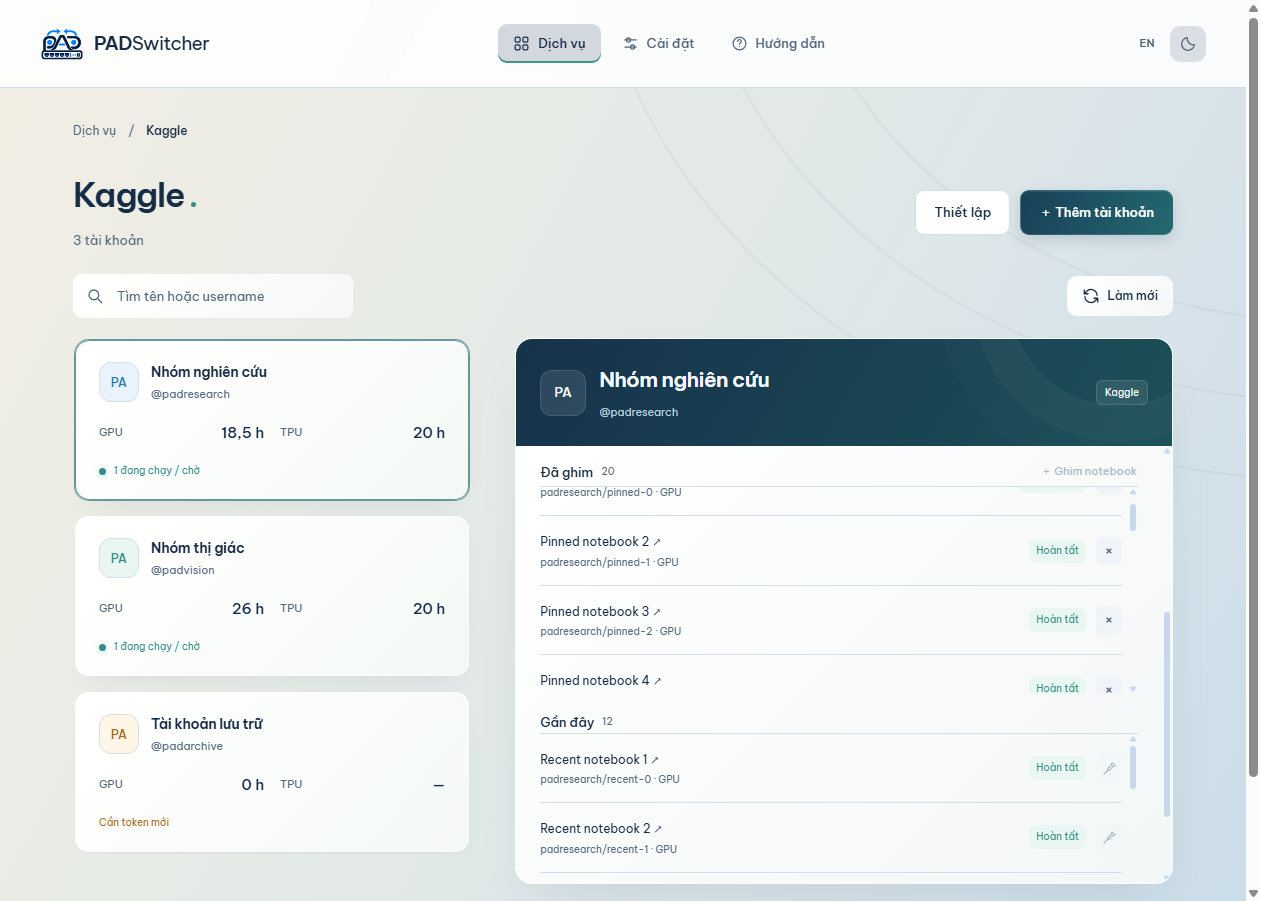
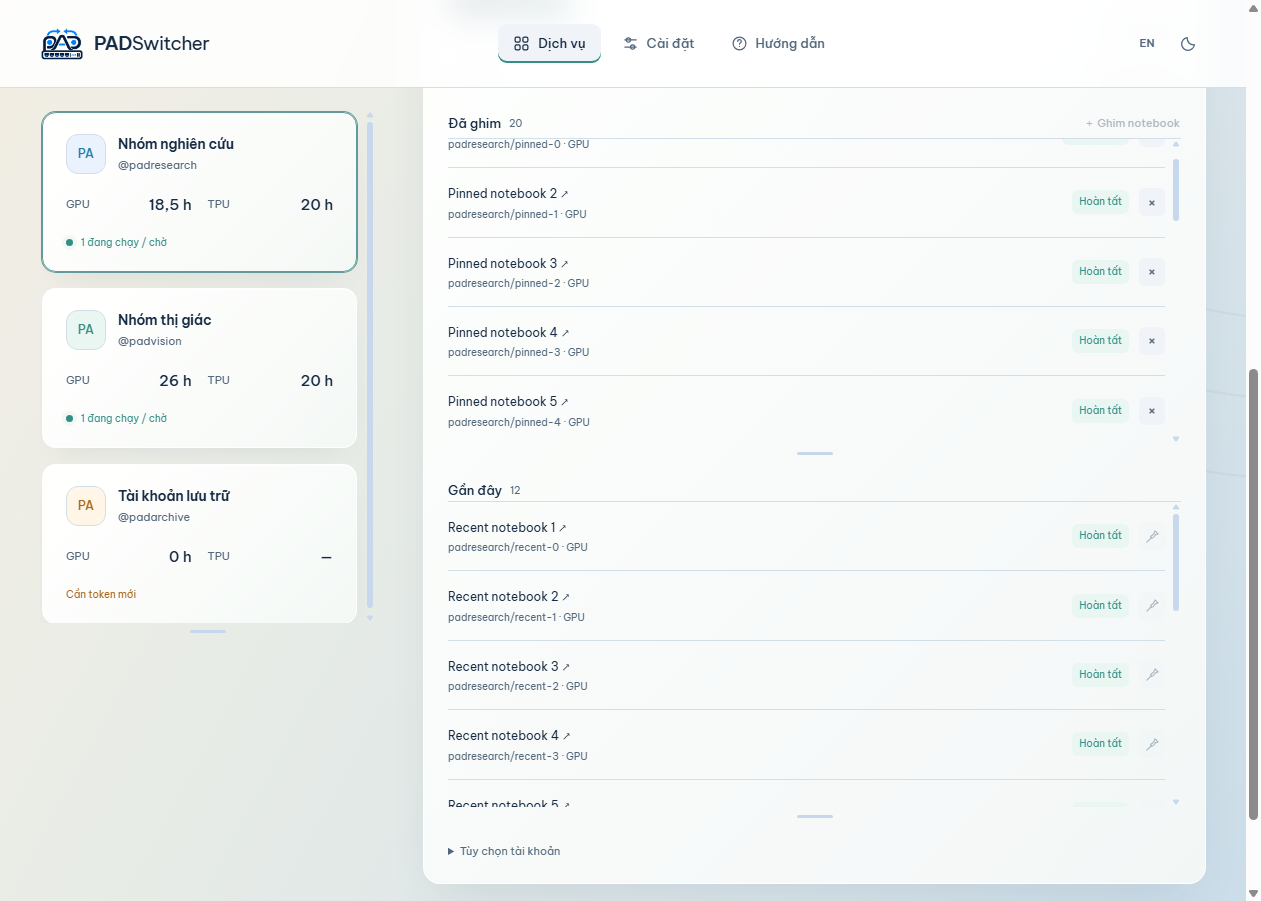
feat(kaggle): make account and notebook panes responsive and resizable
Use the available window width and page scrolling for account details.
Add drag and keyboard controls for column width and list heights, remember
chosen sizes across refresh/restart, and offer automatic-layout reset.
Preserve pagination for tall custom lists and verify native pointer capture.

diff --git a/src/renderer/kaggle.js b/src/renderer/kaggle.js
@@ -14,6 +14,74 @@ window.padKaggleUI = (() => {
   const act=(command,args={},success)=>hooks.call(command,args,success);
   const button=(id,label,kind='secondary',disabled=false)=>`<button type="button" id="${id}" class="button ${kind}" ${disabled?'disabled':''}>${label}</button>`;
   const literal=body=>`<div data-literal>${body}</div>`;
+  const layoutKey='pad-kaggle-layout';
+  let sizes={},resize=null,loadNext=null;
+  try{const saved=JSON.parse(localStorage.getItem(layoutKey));if(saved?.version===1)for(const key of ['width','accounts','pinned','recent'])if(Number.isFinite(saved[key])&&(key==='width'?saved[key]>=.15&&saved[key]<=.7:saved[key]>=80&&saved[key]<=10000))sizes[key]=saved[key];}catch{}
+  const grip=(key,label,vertical=false)=>`<div class="kg-resizer ${vertical?'kg-column-resizer':'kg-row-resizer'}" data-kg-resize="${key}" role="separator" tabindex="0" aria-orientation="${vertical?'vertical':'horizontal'}" aria-label="${label}" title="${label}"><span aria-hidden="true"></span></div>`;
+  function bounds(key){
+    if(key!=='width')return [key==='accounts'?160:80,Math.max(480,window.innerHeight*2)];
+    const width=Math.max(1,$('#kg-layout').clientWidth-48);
+    return [Math.min(.4,240/width),Math.max(.4,Math.min(.6,1-360/width))];
+  }
+  const constrain=(key,value)=>{const [min,max]=bounds(key);return Math.max(min,Math.min(max,value));};
+  function saveSizes(){try{if(Object.keys(sizes).length)localStorage.setItem(layoutKey,JSON.stringify({version:1,...sizes}));else localStorage.removeItem(layoutKey);}catch{}}
+  function applySizes(){
+    const root=$('#kaggle-content'),layout=$('#kg-layout');if(!layout||layout.classList.contains('hidden')||!layout.clientWidth)return;
+    const width=Math.max(1,layout.clientWidth-48),top=layout.getBoundingClientRect().top+window.scrollY;
+    const automaticAccounts=Math.max(320,window.innerHeight-top-24);
+    root.style.setProperty('--kg-account-width',Math.round(constrain('width',sizes.width??.3)*width)+'px');
+    root.style.setProperty('--kg-accounts-auto',automaticAccounts+'px');
+    for(const key of ['accounts','pinned','recent']){
+      const property='--kg-'+key+'-height';
+      if(sizes[key]!=null)root.style.setProperty(property,constrain(key,sizes[key])+'px');else root.style.removeProperty(property);
+    }
+    for(const handle of root.querySelectorAll('[data-kg-resize]')){
+      const key=handle.dataset.kgResize,[min,max]=bounds(key),region=document.getElementById(key==='accounts'?'kg-list':'kg-notebooks-'+key);
+      const value=key==='width'?constrain(key,sizes.width??.3)*100:region?.getBoundingClientRect().height||sizes[key]||min;
+      handle.setAttribute('aria-valuemin',Math.round(key==='width'?min*100:min));handle.setAttribute('aria-valuemax',Math.round(key==='width'?max*100:max));handle.setAttribute('aria-valuenow',Math.round(value));
+      handle.setAttribute('aria-valuetext',Math.round(value)+(key==='width'?'%':' px'));
+    }
+  }
+  function endResize(cancel=false){
+    if(!resize)return;const previous=resize;resize=null;
+    if(cancel)sizes=previous.before;else saveSizes();
+    document.body.classList.remove('kg-resizing-width','kg-resizing-height');applySizes();
+    const root=$('#kaggle-content');if(root.hasPointerCapture?.(previous.id))root.releasePointerCapture(previous.id);
+  }
+  function setupResizing(root){
+    root.addEventListener('pointerdown',event=>{
+      const handle=event.target.closest('[data-kg-resize]');if(!handle||event.button!==0)return;
+      const key=handle.dataset.kgResize,region=document.getElementById(key==='accounts'?'kg-list':'kg-notebooks-'+key);
+      endResize();resize={key,id:event.pointerId,x:event.clientX,y:event.clientY,width:Math.max(1,$('#kg-layout').clientWidth-48),value:key==='width'?constrain(key,sizes.width??.3):region.getBoundingClientRect().height,before:{...sizes}};
+      root.setPointerCapture?.(event.pointerId);document.body.classList.add(key==='width'?'kg-resizing-width':'kg-resizing-height');handle.focus({preventScroll:true});event.preventDefault();
+    });
+    root.addEventListener('pointermove',event=>{
+      if(!resize||event.pointerId!==resize.id)return;
+      sizes[resize.key]=constrain(resize.key,resize.value+(resize.key==='width'?(event.clientX-resize.x)/resize.width:event.clientY-resize.y));applySizes();
+    });
+    root.addEventListener('pointerup',event=>{if(event.pointerId===resize?.id)endResize();});
+    root.addEventListener('pointercancel',event=>{if(event.pointerId===resize?.id)endResize(true);});
+    root.addEventListener('lostpointercapture',()=>endResize());
+    root.addEventListener('dblclick',event=>{const key=event.target.closest('[data-kg-resize]')?.dataset.kgResize;if(key){delete sizes[key];saveSizes();applySizes();}});
+    root.addEventListener('keydown',event=>{
+      if(event.key==='Escape'&&resize){endResize(true);event.preventDefault();return;}
+      const handle=event.target.closest('[data-kg-resize]');if(!handle)return;
+      const key=handle.dataset.kgResize,up=key==='width'?'ArrowRight':'ArrowDown',down=key==='width'?'ArrowLeft':'ArrowUp';
+      if(![up,down,'Home','End','Enter'].includes(event.key))return;event.preventDefault();
+      if(event.key==='Enter')delete sizes[key];
+      else {const [min,max]=bounds(key),current=Number(handle.getAttribute('aria-valuenow'))/(key==='width'?100:1),step=(key==='width'?.02:20)*(event.shiftKey?5:1);sizes[key]=constrain(key,event.key==='Home'?min:event.key==='End'?max:current+(event.key===up?step:-step));}
+      saveSizes();applySizes();
+    });
+    window.addEventListener('resize',applySizes);
+    let lastPageTop=window.scrollY;
+    window.addEventListener('scroll',()=>{
+      const down=window.scrollY>lastPageTop;lastPageTop=window.scrollY;
+      if(!down||resize||$('#kaggle-page').classList.contains('hidden'))return;
+      const recent=$('#kg-notebooks-recent'),p=data?.accounts.find(p=>p.id===selected);
+      if(!recent||p?.notebookList?.error||recent.scrollHeight>recent.clientHeight)return;
+      const rect=recent.getBoundingClientRect();if(rect.bottom<=window.innerHeight+40&&rect.bottom>90)loadNext?.();
+    },{passive:true});
+  }
   function dialog(title,body,submit,label){hooks.showModal(title,literal(body),submit,label);}
   function render(next,defaultWorkspace) {
     data=next||{accounts:[],settings:{autoRefresh:true},tool:null,editing:false};workspace=defaultWorkspace||workspace;
@@ -23,9 +91,10 @@ window.padKaggleUI = (() => {
     const focusAccount=active?.dataset.kgAccount;
     const focusNotebook=root.contains(active)?['kgOpen','kgUnpin','kgPinRef'].find(key=>active.dataset[key]):null;
     const focusRef=focusNotebook?active.dataset[focusNotebook]:null;
+    const focusResize=root.contains(active)?active?.dataset.kgResize:null;
     if(!root.dataset.ready){
-      root.innerHTML='<div id="kg-heading" class="page-heading"></div><div id="kg-tool-hint"></div><div id="kg-toolbar" class="toolbar"><div class="search"><svg class="icon" viewBox="0 0 24 24" aria-hidden="true"><circle cx="10.5" cy="10.5" r="6.5"/><path d="m16 16 5 5"/></svg><input id="kg-search" type="search"></div><div id="kg-refresh" class="toolbar-right"></div></div><div id="kg-empty"></div><div class="kg-layout" id="kg-layout"><div id="kg-list" class="kg-list"></div><aside id="kg-detail" class="kg-detail"></aside></div><div id="kg-guide"></div>';
-      root.dataset.ready='1';$('#kg-search').oninput=event=>{query=event.target.value;render(data,workspace);};
+      root.innerHTML='<div id="kg-heading" class="page-heading"></div><div id="kg-tool-hint"></div><div id="kg-toolbar" class="toolbar"><div class="search"><svg class="icon" viewBox="0 0 24 24" aria-hidden="true"><circle cx="10.5" cy="10.5" r="6.5"/><path d="m16 16 5 5"/></svg><input id="kg-search" type="search"></div><div id="kg-refresh" class="toolbar-right"></div></div><div id="kg-empty"></div><p id="kg-layout-hint" class="kg-layout-hint"></p><div class="kg-layout" id="kg-layout"><div class="kg-account-pane"><div id="kg-list" class="kg-list"></div><div id="kg-accounts-grip"></div></div><div id="kg-column-grip"></div><aside id="kg-detail" class="kg-detail"></aside></div><div id="kg-guide"></div>';
+      root.dataset.ready='1';setupResizing(root);$('#kg-search').oninput=event=>{query=event.target.value;render(data,workspace);};
     }
     $('#kg-heading').innerHTML=`<div><h1 tabindex="-1">Kaggle</h1><div class="list-heading"><h2>${data.accounts.length} ${t('tài khoản','accounts')}</h2></div></div><div class="heading-actions">${button('kg-setup',t('Thiết lập','Setup'),'secondary')}${button('kg-add',t('＋ Thêm tài khoản','＋ Add account'),'primary',data.editing)}</div>`;
     $('#kg-setup').onclick=setup;$('#kg-add').onclick=()=>account();
@@ -35,11 +104,16 @@ window.padKaggleUI = (() => {
     $('#kg-search').placeholder=t('Tìm tên hoặc username','Search name or username');$('#kg-search').setAttribute('aria-label',$('#kg-search').placeholder);
     $('#kg-toolbar').classList.toggle('hidden',!data.accounts.length);
     const any=data.accounts.some(p=>p.refreshing);
-    $('#kg-refresh').innerHTML=button('kg-refresh-all',`<svg class="icon" viewBox="0 0 24 24" aria-hidden="true"><path d="M20 11a8 8 0 0 0-14-5L3 9m0-5v5h5M4 13a8 8 0 0 0 14 5l3-3m0 5v-5h-5"/></svg><span>${any?t('Đang cập nhật…','Refreshing…'):t('Làm mới','Refresh')}</span>`,'ghost refresh-button',any||unavailable);
+    $('#kg-refresh').innerHTML=button('kg-layout-reset',t('Bố cục mặc định','Reset layout'),'ghost')+button('kg-refresh-all',`<svg class="icon" viewBox="0 0 24 24" aria-hidden="true"><path d="M20 11a8 8 0 0 0-14-5L3 9m0-5v5h5M4 13a8 8 0 0 0 14 5l3-3m0 5v-5h-5"/></svg><span>${any?t('Đang cập nhật…','Refreshing…'):t('Làm mới','Refresh')}</span>`,'ghost refresh-button',any||unavailable);
+    $('#kg-layout-reset').onclick=()=>{endResize(true);sizes={};saveSizes();applySizes();};
     $('#kg-refresh-all').onclick=()=>act('kaggleRefreshAll',{},t('Đã cập nhật các tài khoản. Xem chi tiết nếu có lỗi.','Accounts refreshed. Check details for any errors.'));
     const rows=data.accounts.filter(p=>(p.label+' '+p.username).toLowerCase().includes(query.toLowerCase()));
     if(!rows.some(p=>p.id===selected))selected=rows[0]?.id;
     $('#kg-layout').classList.toggle('hidden',!rows.length);
+    $('#kg-layout-hint').classList.toggle('hidden',!rows.length);
+    $('#kg-layout-hint').textContent=t('Kéo vạch giữa hai cột hoặc dưới danh sách để đổi kích thước.','Drag between columns or below a list to resize.');
+    $('#kg-column-grip').innerHTML=grip('width',t('Đổi chiều rộng cột tài khoản · phím trái/phải; Enter để đặt lại','Resize account column · left/right arrows; Enter to reset'),true);
+    $('#kg-accounts-grip').innerHTML=grip('accounts',t('Đổi chiều cao danh sách tài khoản · phím lên/xuống; Enter để đặt lại','Resize account list · up/down arrows; Enter to reset'));
     $('#kg-empty').innerHTML=!data.accounts.length?`<div class="empty kg-empty"><div class="service-mark kaggle">k</div><h2>${t('Thêm tài khoản Kaggle đầu tiên','Add your first Kaggle account')}</h2><p>${t('Lưu API token một lần, chọn tài khoản từ terminal khi cần.','Save an API token once, then select an account from your terminal.')}</p>${button('kg-empty-add',t('Thêm tài khoản','Add account'),'primary',data.editing)}<small>${t('Token được mã hóa bằng tài khoản Windows của bạn.','Tokens are encrypted for your Windows user.')}</small></div>`:!rows.length?`<div class="no-results">${t('Không tìm thấy tài khoản.','No matching accounts.')}</div>`:'';
     $('#kg-empty-add')?.addEventListener('click',()=>account());
     if($('#kg-empty-add'))$('#kg-empty-add').disabled=unavailable;
@@ -50,12 +124,15 @@ window.padKaggleUI = (() => {
       return `<button class="kg-account ${selected===p.id?'selected':''}" data-kg-account="${e(p.id)}" aria-pressed="${selected===p.id}"><span class="kg-account-top"><span class="avatar">${e(p.username.slice(0,2).toUpperCase())}</span><span class="kg-account-name"><strong>${e(p.label)}</strong><small>@${e(p.username)}</small></span></span><span class="kg-account-quota">${['GPU','TPU'].map(resource=>`<span><span>${resource}</span><b>${hours(p.quota?.find(q=>q.resource===resource)?.remaining)}</b></span>`).join('')}</span><span class="kg-account-hint ${older?'kg-stale':active?'kg-fresh':''}">${!older&&active?'<span class="status-dot ready"></span>':''}${e(hint)}</span></button>`;
     }).join('');
     document.querySelectorAll('[data-kg-account]').forEach(el=>el.onclick=()=>{selected=el.dataset.kgAccount;render(data,workspace);});
-    detail(rows.find(p=>p.id===selected));guide();
+    detail(rows.find(p=>p.id===selected));guide();applySizes();
+    window.requestAnimationFrame?.(applySizes);
     if(focusId)document.getElementById(focusId)?.focus({preventScroll:true});
     else if(focusAccount)root.querySelector(`[data-kg-account="${focusAccount}"]`)?.focus({preventScroll:true});
     else if(focusRef){const attribute={kgOpen:'data-kg-open',kgUnpin:'data-kg-unpin',kgPinRef:'data-kg-pin-ref'}[focusNotebook];root.querySelector(`[${attribute}="${focusRef}"]`)?.focus({preventScroll:true});}
+    else if(focusResize)root.querySelector(`[data-kg-resize="${focusResize}"]`)?.focus({preventScroll:true});
   }
   function detail(p){
+    loadNext=null;
     const box=$('#kg-detail');if(!p){box.innerHTML='';delete box.dataset.account;return;}
     const opened=box.dataset.account===p.id?new Set([...box.querySelectorAll('details[open]')].map(el=>el.id)):new Set();
     const scroll=box.dataset.account===p.id?new Map([...box.querySelectorAll('[data-kg-scroll]')].map(el=>[el.id,el.scrollTop])):new Map();
@@ -76,11 +153,11 @@ window.padKaggleUI = (() => {
         const stamp=n.readAt||p.notebooksAt;
         return `<div class="kg-notebook"><div class="kg-notebook-main"><button class="text-button kg-notebook-link" data-kg-open="${e(n.ref)}" title="${e(n.ref)}">${e(n.title||n.ref)} ↗</button><small>${e(n.ref)}${n.accelerator?' · '+e(n.accelerator):''}</small>${n.error?`<small class="danger-text">${e(window.padUI.t(n.error))}</small>`:''}</div><span class="kg-run-status ${older?'unknown':Object.hasOwn(names,n.status)?n.status:'unknown'}" title="${e(date(stamp))}${older?' · '+t('Dữ liệu cũ','Older data'):''}">${e(status(n.status))}</span><button class="icon-button kg-notebook-toggle" ${isPinned?'data-kg-unpin':'data-kg-pin-ref'}="${e(n.ref)}" aria-label="${isPinned?t('Bỏ ghim','Unpin'):t('Ghim','Pin')} ${e(n.ref)}" title="${isPinned?t('Bỏ ghim','Unpin'):t('Ghim','Pin')}" ${disabled||(!isPinned&&p.watch.length>=20)?'disabled':''}>${isPinned?'×':'<svg class="icon" viewBox="0 0 24 24" aria-hidden="true"><path d="m16 3 5 5-4 1-4 5-3 1-1-3 5-4 2-5ZM10 14l-7 7"/></svg>'}</button></div>`;
       }).join('');
-      return `<section class="kg-notebook-group" aria-labelledby="${id}-title"><div class="kg-section-title kg-notebook-heading"><h3 id="${id}-title">${label}<span class="kg-notebook-count">${rows.length}</span></h3>${isPinned?button('kg-pin',t('＋ Ghim notebook','＋ Pin notebook'),'ghost',disabled||p.watch.length>=20):''}</div><div id="${id}" class="kg-notebooks" data-kg-scroll tabindex="0" role="region" aria-labelledby="${id}-title" ${!isPinned?`aria-busy="${!!listing.loading}"`:''}>${content||`<div class="kg-no-runs">${empty}</div>`}${isPinned?'':more}</div></section>`;
+      return `<section class="kg-notebook-group" aria-labelledby="${id}-title"><div class="kg-section-title kg-notebook-heading"><h3 id="${id}-title">${label}<span class="kg-notebook-count">${rows.length}</span></h3>${isPinned?button('kg-pin',t('＋ Ghim notebook','＋ Pin notebook'),'ghost',disabled||p.watch.length>=20):''}</div><div id="${id}" class="kg-notebooks" data-kg-scroll tabindex="0" role="region" aria-labelledby="${id}-title" ${!isPinned?`aria-busy="${!!listing.loading}"`:''}>${content||`<div class="kg-no-runs">${empty}</div>`}${isPinned?'':more}</div>${grip(isPinned?'pinned':'recent',isPinned?t('Đổi chiều cao Đã ghim · phím lên/xuống; Enter để đặt lại','Resize Pinned · up/down arrows; Enter to reset'):t('Đổi chiều cao Gần đây · phím lên/xuống; Enter để đặt lại','Resize Recent · up/down arrows; Enter to reset'))}</section>`;
     };
     box.innerHTML=`
       <div class="kg-detail-heading"><div class="avatar">${e(p.username.slice(0,2).toUpperCase())}</div><div class="kg-detail-identity"><h2>${e(p.label)}</h2><span>@${e(p.username)}</span></div><span class="badge">Kaggle</span></div>
-      <div id="kg-detail-body" class="kg-detail-body" data-kg-scroll tabindex="0" role="region" aria-label="${t('Quota và notebook của tài khoản','Account quota and notebooks')}">
+      <div id="kg-detail-body" class="kg-detail-body">
         ${p.lastError?`<div class="banner danger">${e(window.padUI.t(p.lastError))}</div>`:''}
         <div class="kg-section-title"><h3>${t('Quota còn lại','Remaining quota')}</h3><span class="kg-update ${quotaStale?'kg-stale':''}">${e(date(p.quotaAt))}${p.quotaAt&&quotaStale?' · '+t('Dữ liệu cũ','Older data'):''}</span></div>
         <div class="kg-quota-grid">${quotas}</div>
@@ -107,14 +184,14 @@ window.padKaggleUI = (() => {
       if(disabled||!listing.hasMore||listing.loading||loadingPages.has(p.id))return;
       loadingPages.add(p.id);try{await act('kaggleNotebooksMore',{id:p.id});}finally{loadingPages.delete(p.id);}
     };
+    loadNext=loadMore;
     $('#kg-load-more')?.addEventListener('click',loadMore);
-    const recentBox=$('#kg-notebooks-recent'),body=$('#kg-detail-body');
-    for(const region of [recentBox,body]){
+    const recentBox=$('#kg-notebooks-recent');
+    for(const region of [recentBox]){
       let previous=region.scrollTop;
       region.addEventListener('scroll',()=>{
         const down=region.scrollTop>previous;previous=region.scrollTop;
         if(!down||listing.error||region.scrollHeight-region.clientHeight-region.scrollTop>40)return;
-        if(region===body){if(recentBox.scrollHeight>recentBox.clientHeight)return;const r=recentBox.getBoundingClientRect(),b=body.getBoundingClientRect();if(r.top>=b.bottom||r.bottom<=b.top)return;}
         loadMore();
       },{passive:true});
     }
@@ -159,5 +236,5 @@ window.padKaggleUI = (() => {
     box.innerHTML=`<details class="panel disclosure kg-guide" ${open?'open':''}><summary>${t('Làm việc từ code local với Kaggle','Work with local code and Kaggle')}</summary><ol><li>${t('Thêm tài khoản bằng API token một lần. Dùng padkaggle use username trong PowerShell, hoặc sao chép lệnh từ nút Dùng ở terminal.','Add each account once. Use padkaggle use username in PowerShell, or copy Use in terminal.')}</li><li>${t('Viết code bằng VS Code như bình thường. Trong terminal tài khoản, tạo cấu hình notebook:','Write code in VS Code as usual. In the account terminal, create notebook metadata:')}<pre>kaggle kernels init -p ./job</pre>${t('Sửa kernel-metadata.json: id đúng username/notebook-slug, code_file trỏ đến code, enable_gpu: true nếu cần GPU; khai báo nguồn dữ liệu.','Edit kernel-metadata.json: set id to username/notebook-slug, code_file to your code, enable_gpu: true for GPU; specify data sources.')}</li><li>${t('Gửi code lên Kaggle và lấy kết quả bằng CLI:','Send code to Kaggle and fetch results using the CLI:')}<pre>kaggle kernels push -p ./job\nkaggle kernels status username/notebook-slug\nkaggle kernels output username/notebook-slug -p ./results</pre></li><li>${t('Mở terminal của tài khoản khác để gửi công việc khác song song, trong giới hạn và điều khoản của Kaggle.','Open another account’s terminal to submit another job in parallel, within Kaggle’s limits and terms.')}</li></ol><p>${t('python train.py vẫn chạy local. GPU Kaggle được dùng bởi notebook gửi lên Kaggle. PADSwitcher không chia job hay tự đổi tài khoản. Đóng PADSwitcher không dừng job đã gửi hoặc terminal đã mở.','python train.py runs locally. Kaggle GPUs run the notebooks you submit to Kaggle. PADSwitcher does not split jobs or switch accounts automatically. Closing PADSwitcher does not stop submitted jobs or open terminals.')}</p>${button('kg-docs',t('Tài liệu Kaggle CLI ↗','Kaggle CLI documentation ↗'),'ghost')}</details>`;
     $('#kg-docs').onclick=()=>act('kaggleOpen',{kind:'docs'});
   }
-  return {init(value){hooks=value;},render};
+  return {init(value){hooks=value;},render,layout:applySizes};
 })();

diff --git a/src/renderer/kaggle.css b/src/renderer/kaggle.css
@@ -1,8 +1,24 @@
 /* The same surfaces, header and spacing as Codex; details reveal secondary controls. */
-.kg-layout{display:grid;grid-template-columns:minmax(260px,.85fr) minmax(0,1.35fr);gap:28px;align-items:start;height:clamp(340px,calc(100dvh - 355px),740px)}
-.kg-list{display:flex;flex-direction:column;gap:16px;max-height:100%;overflow-y:auto;padding:2px 8px 2px 2px}
-.kg-list,.kg-detail-body,.kg-notebooks{scrollbar-width:thin;scrollbar-color:var(--detail-line) transparent;scrollbar-gutter:stable;overscroll-behavior:contain}
-.kg-account{font:inherit;display:flex;flex-direction:column;gap:18px;width:100%;text-align:left;padding:20px 23px;border:1px solid var(--card-edge);border-radius:14px;background:var(--card-fill);color:var(--ink);box-shadow:0 12px 30px -17px var(--shadow),inset 0 1px var(--surface-border)}
+#kaggle-page{max-width:none}
+body:has(#kaggle-page:not(.hidden)) .service-context{max-width:none}
+.kg-layout{display:grid;grid-template-columns:var(--kg-account-width,30%) 12px minmax(0,1fr);gap:18px;align-items:start}
+.kg-account-pane{min-width:0;position:sticky;top:110px}
+.kg-list{display:flex;flex-direction:column;gap:16px;min-height:160px;height:var(--kg-accounts-height,auto);max-height:var(--kg-accounts-height,var(--kg-accounts-auto,65dvh));overflow-y:auto;padding:2px 8px 2px 2px}
+.kg-list,.kg-notebooks{scrollbar-width:thin;scrollbar-color:var(--detail-line) transparent;scrollbar-gutter:stable;overscroll-behavior:contain}
+.kg-layout-hint{font-size:11px;margin:-8px 0 14px;color:var(--muted)}
+#kg-refresh{display:flex;align-items:center;gap:16px}
+#kg-refresh #kg-layout-reset{font-size:11px;padding:6px 0}
+.kg-resizer{touch-action:none;outline-offset:2px;display:flex;align-items:center;justify-content:center;border-radius:6px;color:var(--muted)}
+.kg-resizer:hover,.kg-resizer:focus-visible{background:var(--mint-soft);color:var(--mint)}
+.kg-resizer:focus-visible{outline:2px solid var(--card-selected)}
+.kg-resizer>span{display:block;border-radius:3px;background:var(--detail-line)}
+.kg-row-resizer{height:18px;cursor:ns-resize}
+.kg-row-resizer>span{width:36px;height:3px}
+.kg-column-resizer{min-height:180px;height:var(--kg-accounts-auto,65dvh);cursor:ew-resize;position:sticky;top:110px}
+.kg-column-resizer>span{width:3px;height:48px}
+.kg-resizing-width,.kg-resizing-width *{cursor:ew-resize!important;user-select:none!important}
+.kg-resizing-height,.kg-resizing-height *{cursor:ns-resize!important;user-select:none!important}
+.kg-account{font:inherit;display:flex;flex-direction:column;gap:18px;width:100%;flex-shrink:0;text-align:left;padding:20px 23px;border:1px solid var(--card-edge);border-radius:14px;background:var(--card-fill);color:var(--ink);box-shadow:0 12px 30px -17px var(--shadow),inset 0 1px var(--surface-border)}
 .kg-account:hover{border-color:var(--card-selected);box-shadow:0 15px 32px -15px var(--shadow);transform:translateY(-1px)}
 .kg-account.selected{border-color:var(--card-selected);box-shadow:0 0 0 1px var(--card-selected),0 16px 35px -20px var(--shadow)}
 .kg-account-top{display:flex;align-items:center;gap:12px;min-width:0}
@@ -17,7 +33,7 @@
 .kg-account-quota b{font-size:15px;color:var(--ink);font-weight:500;font-variant-numeric:tabular-nums}
 .kg-account-hint{display:flex;align-items:center;gap:8px;font-size:10px;line-height:1.6;color:var(--muted)}
 .kg-fresh{color:var(--mint)}.kg-stale{color:var(--amber)!important}
-.kg-detail{border:1px solid var(--card-edge);border-radius:17px;background:var(--card-fill);box-shadow:0 24px 50px -20px var(--shadow);min-width:0;overflow:hidden;display:flex;flex-direction:column;max-height:100%}
+.kg-detail{border:1px solid var(--card-edge);border-radius:17px;background:var(--card-fill);box-shadow:0 24px 50px -20px var(--shadow);min-width:0;overflow:hidden}
 .kg-detail-heading{display:flex;align-items:center;gap:13px;padding:24px;background:var(--hero-fill);color:var(--hero-ink);position:relative;overflow:hidden;flex-shrink:0}
 .kg-detail-heading::before{content:'';position:absolute;pointer-events:none;width:220px;height:220px;right:-58px;top:-154px;border:1px solid #ffffff14;border-radius:50%;box-shadow:0 0 0 35px #ffffff07,0 0 0 70px #ffffff04}
 .kg-detail-heading .avatar{width:46px;height:46px;flex-shrink:0;background:#ffffff1a;color:var(--hero-ink);border-color:#ffffff20;font-size:13px}
@@ -25,7 +41,7 @@
 .kg-detail-heading h2{margin:0 0 3px;font-size:21px;font-weight:600;overflow-wrap:anywhere;letter-spacing:-.6px}
 .kg-detail-identity>span{font-size:11px;color:var(--hero-muted)}
 .kg-detail-heading .badge{color:var(--hero-ink);background:#ffffff18;border:1px solid #ffffff20;position:relative}
-.kg-detail-body{padding:22px 24px;min-height:0;overflow-y:auto}
+.kg-detail-body{padding:22px 24px}
 .kg-section-title{display:flex;justify-content:space-between;align-items:center;gap:12px;flex-wrap:wrap;margin-bottom:14px}
 .kg-section-title h3{font-size:12px;color:var(--muted);font-weight:500;margin:0}
 .kg-update{font-size:10px;color:var(--muted)}
@@ -58,7 +74,9 @@
 .kg-notebook-group{margin-top:18px}
 .kg-notebook-heading h3{display:flex;align-items:center;gap:8px}
 .kg-notebook-count{font-size:10px;font-weight:400;color:var(--muted)}
-.kg-notebooks{border-top:1px solid var(--line);max-height:208px;overflow-y:auto;padding-right:6px;outline-offset:-3px}
+.kg-notebooks{border-top:1px solid var(--line);min-height:80px;overflow-y:auto;padding-right:6px;outline-offset:-3px}
+#kg-notebooks-pinned{height:var(--kg-pinned-height,auto);max-height:var(--kg-pinned-height,max(260px,34dvh))}
+#kg-notebooks-recent{height:var(--kg-recent-height,auto);max-height:var(--kg-recent-height,max(260px,34dvh))}
 .kg-notebook{display:flex;align-items:center;gap:10px;padding:14px 0;border-bottom:1px solid var(--line);min-width:0}
 .kg-notebook-main{flex:1;min-width:0}
 .kg-notebook-link{font-size:12px;text-align:left;line-height:1.6;overflow-wrap:anywhere;color:var(--ink);padding:0}
@@ -90,7 +108,7 @@
 .kg-tool-state.ready{background:var(--mint-soft)}
 .kg-tool-state p{font-size:12px;margin:8px 0 0}
 #modal-body input[id^=kg-]:not([type=checkbox]){width:100%;border:1px solid var(--line);border-radius:10px;padding:12px;font:inherit;font-size:13px;background:var(--surface-soft);color:var(--ink)}
-@media(max-width:1120px){.kg-layout{grid-template-columns:minmax(250px,.8fr) minmax(0,1.2fr);gap:20px}.kg-account{padding:18px}.kg-detail-body{padding:20px}.kg-detail-heading{padding:20px}.kg-quota>b{font-size:26px}.kg-quota-grid{gap:16px}}
-@media(max-height:760px) and (min-width:851px){.kg-layout{height:clamp(340px,calc(100dvh - 290px),560px)}.kg-account{gap:13px;padding:16px 18px}.kg-detail-heading{padding:16px 20px}.kg-detail-heading h2{font-size:19px}.kg-detail-body{padding:16px 20px}.kg-use{margin-bottom:14px}.kg-notebook{padding:10px 0}.kg-list{gap:12px}.kg-notebooks{max-height:156px}}
-@media(max-width:850px){.kg-layout{grid-template-columns:1fr;height:auto}.kg-list{display:grid;grid-template-columns:repeat(2,minmax(0,1fr));gap:12px;max-height:280px}.kg-account{padding:16px;gap:12px}.kg-run-status{font-size:9px}.kg-detail{max-width:100%;max-height:620px}}
+@media(max-width:1120px){.kg-layout{gap:18px}.kg-account{padding:18px}.kg-detail-body{padding:20px}.kg-detail-heading{padding:20px}.kg-quota>b{font-size:26px}.kg-quota-grid{gap:16px}}
+@media(max-height:760px) and (min-width:851px){.kg-account{gap:13px;padding:16px 18px}.kg-detail-heading{padding:16px 20px}.kg-detail-heading h2{font-size:19px}.kg-detail-body{padding:16px 20px}.kg-use{margin-bottom:14px}.kg-notebook{padding:10px 0}.kg-list{gap:12px}.kg-account-pane{top:90px}}
+@media(max-width:850px){.kg-layout{grid-template-columns:1fr}.kg-account-pane{position:static}#kg-column-grip{display:none}.kg-list{display:grid;grid-template-columns:repeat(2,minmax(0,1fr));gap:12px}.kg-account{padding:16px;gap:12px}.kg-run-status{font-size:9px}.kg-detail{max-width:100%}}
 @media(max-width:620px){.kg-list{grid-template-columns:1fr}.kg-quota-grid{gap:14px}.kg-detail-heading{gap:10px;padding:18px}.kg-detail-body{padding:18px}.kg-detail-heading h2{font-size:18px}.kg-detail-heading .badge{display:none}.kg-notebook{gap:6px}}

diff --git a/src/renderer/app.js b/src/renderer/app.js
@@ -261,6 +261,7 @@ function navigate(next) {
   if (next === 'codex-settings'&&!$('#settings-form').dataset.dirty) fillSettings();
   ui.apply();
   document.documentElement.scrollTop=0;
+  if(next==='kaggle')window.padKaggleUI.layout();
   document.querySelector('#'+next+'-page h1')?.focus({preventScroll:true});
 }
 document.addEventListener('click',event=>{const button=event.target.closest('button[data-page]');if(button&&!button.disabled)navigate(button.dataset.page);});

diff --git a/docs/KAGGLE.md b/docs/KAGGLE.md
@@ -6,6 +6,15 @@ Since 1.15.0, open **Dịch vụ → Kaggle** (Services → Kaggle). Account opt
 
 Since 1.16.0, Pinned and Recent have separate scroll areas. Recent loads 12 notebooks per page on downward end scroll, with Load more/Retry buttons for keyboard access and failures. Loaded counts reflect the visible collection, not an API total.
 
+Since 1.17.0, the Kaggle page uses the window's available width and the details
+scroll with the page. Drag the divider between columns to change the account
+column width, or the grip below Accounts/Pinned/Recent to adjust that list's
+height. Sizes are remembered locally across accounts, refreshes and restarts;
+choose **Bố cục mặc định / Reset layout** to restore automatic sizing. Focus a
+divider and use arrow keys to resize, Shift for larger steps, Enter or a double
+click to reset that divider. Escape cancels an active drag. Window resizing keeps
+columns within readable bounds; the narrow layout stacks them.
+
 ![Pinned and Recent notebook lists with independent scrolling](images/kaggle-notebooks.png)
 
 ## Luồng sử dụng
@@ -48,7 +57,7 @@ Gửi job khác từ terminal của tài khoản B bằng cấu hình notebook c
 
 **Theo dõi:** quota GPU/TPU lấy từ API chính thức, gồm số giờ còn lại, tổng, giữ chỗ và thời điểm đặt lại nếu có. Số giờ còn lại là tổng trừ đã dùng, còn bao gồm phần giữ chỗ; đây không phải bảo đảm GPU còn sẵn. `—` nghĩa là chưa biết, không phải 0.
 
-**Đã ghim** và **Gần đây** có vùng cuộn riêng; phần chi tiết tài khoản cũng cuộn để trang không dài theo số notebook. Gần đây tải 12 notebook mỗi trang khi cuộn xuống cuối hoặc bấm **Tải thêm**. Nếu có lỗi, danh sách đã tải được giữ và có nút **Thử lại**. Số bên cạnh tên mục là số notebook hiện đã tải trong mục đó, không phải tổng trên Kaggle. Notebook đã ghim chỉ xuất hiện ở Đã ghim, có thể ghim nhanh từ Gần đây hoặc nhập `username/notebook-slug` / URL `https://www.kaggle.com/code/username/notebook-slug`, tối đa 20 mục có quyền xem.
+**Đã ghim** và **Gần đây** có vùng cuộn riêng, chiều cao tự thích ứng theo cửa sổ hoặc do bạn kéo chọn. Trang chi tiết cuộn theo chiều dọc để giữ nội dung thoáng. Gần đây tải 12 notebook mỗi trang khi cuộn xuống cuối hoặc bấm **Tải thêm**; nếu khung đủ cao để chứa các mục đã tải, cuộn trang đến cuối khung cũng tải thêm. Nếu có lỗi, danh sách đã tải được giữ và có nút **Thử lại**. Số bên cạnh tên mục là số notebook hiện đã tải trong mục đó, không phải tổng trên Kaggle. Notebook đã ghim chỉ xuất hiện ở Đã ghim, có thể ghim nhanh từ Gần đây hoặc nhập `username/notebook-slug` / URL `https://www.kaggle.com/code/username/notebook-slug`, tối đa 20 mục có quyền xem.
 
 Mỗi notebook hiển thị lượt chạy mới nhất. API không cung cấp đầy đủ mọi phiên tương tác trên web hoặc mọi phiên bản đang chạy. **Làm mới** cập nhật quota, trang đầu và các notebook ghim; các trang tải thêm giữ ảnh chụp tại lúc tải trong phiên mở app, rê chuột lên trạng thái để xem thời điểm đọc. Đóng rồi mở lại app sẽ bắt đầu từ trang đầu. Kaggle phân trang theo thời điểm chạy nên danh sách có thể thay đổi trong lúc đọc; PADSwitcher loại trùng theo đường dẫn notebook. Trạng thái không phải sự kiện trực tiếp liên tục. Nút mở notebook dẫn tới Kaggle để xem thêm; có thể cần đăng nhập tài khoản phù hợp trong trình duyệt.
 

diff --git a/VALIDATION.md b/VALIDATION.md
@@ -1,4 +1,23 @@
-# PADSwitcher 1.16.0 — validation
+# PADSwitcher 1.17.0 — validation
+
+## Responsive and user-resizable Kaggle layout — 1.17.0
+
+Validated on Windows x64 on 2026-10-11 using disposable app data and synthetic accounts.
+
+- Kaggle uses available window width, page scrolling for details and adaptive list
+  heights. Column width and Accounts/Pinned/Recent heights can be dragged, changed
+  with the keyboard, reset individually or restored to automatic sizing together.
+- Renderer checks cover saved preferences, responsive bounds, reset, drag capture
+  through state updates and cancellation. Node suite: 184 tests, 183 pass locally
+  and one PowerShell 7 check is skipped. All 39 renderer checks pass.
+- Real Chromium mouse input verifies column/list drags, preserved sizes across
+  refresh/reload and cursor cleanup. Light/dark, VI/EN screenshots cover 1920×1080,
+  1260×900 and 1000×680, with no horizontal overflow. Pagination still works when
+  a tall custom list fits all loaded rows and the user scrolls the page to its end.
+- Changes are limited to the renderer, version/docs and QA. The running user's
+  PADSwitcher processes, Codex gateway, live credentials and shell profiles are
+  untouched. Portable packaging and packaged smoke pass, including service
+  navigation, the Python bridge and isolated Codex helper/routes.
 
 ## Scrollable notebooks and pagination — 1.16.0
 

diff --git a/README.md b/README.md
@@ -63,6 +63,8 @@ Bản **1.15.0** gom các dịch vụ vào một cửa vào chung. Mở **Dịch
 
 Bản **1.16.0** tách **Đã ghim** và **Gần đây** thành hai vùng cuộn. Cuộn Gần đây xuống cuối để tải thêm 12 notebook mỗi lần, hoặc bấm **Tải thêm**. Các notebook đã tải và vị trí cuộn được giữ khi làm mới quota; trạng thái của trang tải thêm là dữ liệu tại lúc tải.
 
+Bản **1.17.0** mở rộng bố cục theo kích thước cửa sổ. Kéo vạch giữa hai cột để đổi chiều rộng, kéo vạch dưới danh sách tài khoản / Đã ghim / Gần đây để đổi chiều cao. App nhớ kích thước bạn chọn; bấm **Bố cục mặc định** để về kích thước tự động.
+
 Mỗi PowerShell giữ lựa chọn riêng và giữ tài khoản khi đổi thư mục bằng `cd`. Terminal thứ nhất có thể dùng A, terminal thứ hai dùng B để gửi công việc song song trong giới hạn Kaggle. `python train.py` vẫn chạy local; GPU Kaggle chạy notebook bạn gửi bằng `kaggle kernels push`. Xem [hướng dẫn và giới hạn Kaggle](docs/KAGGLE.md).
 
 ### Dùng chung hoặc tài khoản riêng

diff --git a/README.en.md b/README.en.md
@@ -63,6 +63,8 @@ Version **1.15.0** brings services into a shared entry page. Open **Services →
 
 Version **1.16.0** separates **Pinned** and **Recent** into independent scroll areas. Scroll Recent to its end to load 12 more notebooks, or choose **Load more**. Loaded rows and scroll positions survive quota refresh; additional pages show their snapshot from the time they were loaded.
 
+Version **1.17.0** adapts the layout to the window. Drag between columns to adjust width, or below Accounts / Pinned / Recent to adjust that list's height. The app remembers your sizes; **Reset layout** restores automatic sizing.
+
 Each PowerShell keeps its own selection when changing directories with `cd`. Use A in one terminal and B in another to submit jobs in parallel within Kaggle's limits. `python train.py` still runs locally; Kaggle GPUs run the notebooks submitted with `kaggle kernels push`. See [Kaggle usage and limits](docs/KAGGLE.md).
 
 ### Shared or separate accounts

diff --git a/docs/DEVELOPMENT.md b/docs/DEVELOPMENT.md
@@ -93,6 +93,11 @@ independent scroll geometry, end-scroll loading and position preservation in bot
 themes/languages and window sizes. Additional notebook pages are account-specific
 memory caches; persisted first-page/pinned snapshots keep their existing bounds.
 
+Kaggle layout preferences live in renderer localStorage under `pad-kaggle-layout`.
+Window-relative defaults apply until a size is chosen. Native Chromium mouse
+checks cover drag capture through state updates, column/list resizing, reloading
+saved sizes, reset and page-scroll pagination when a custom list fits its rows.
+
 ## Layout
 
 | Folder | Purpose |
